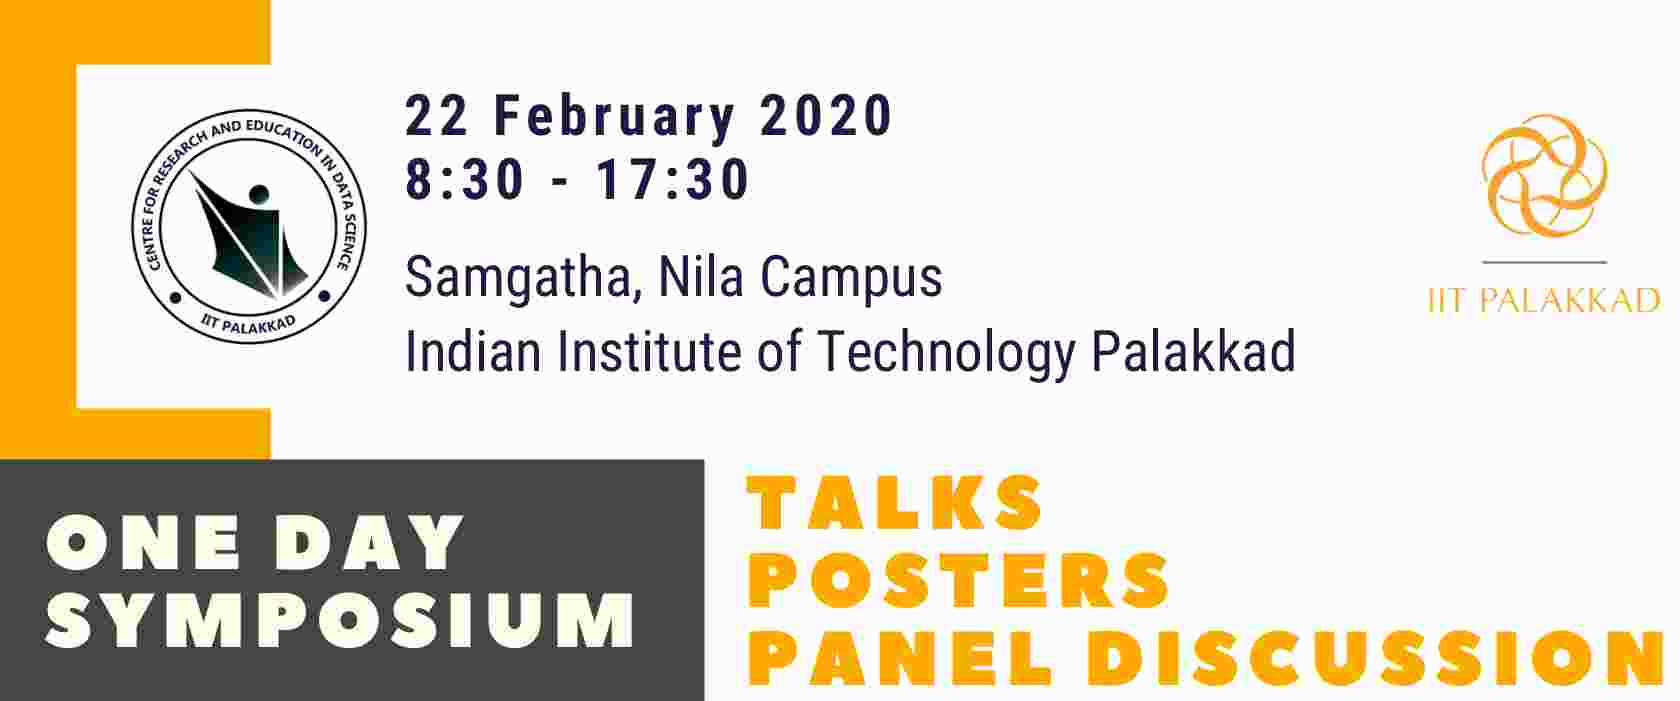
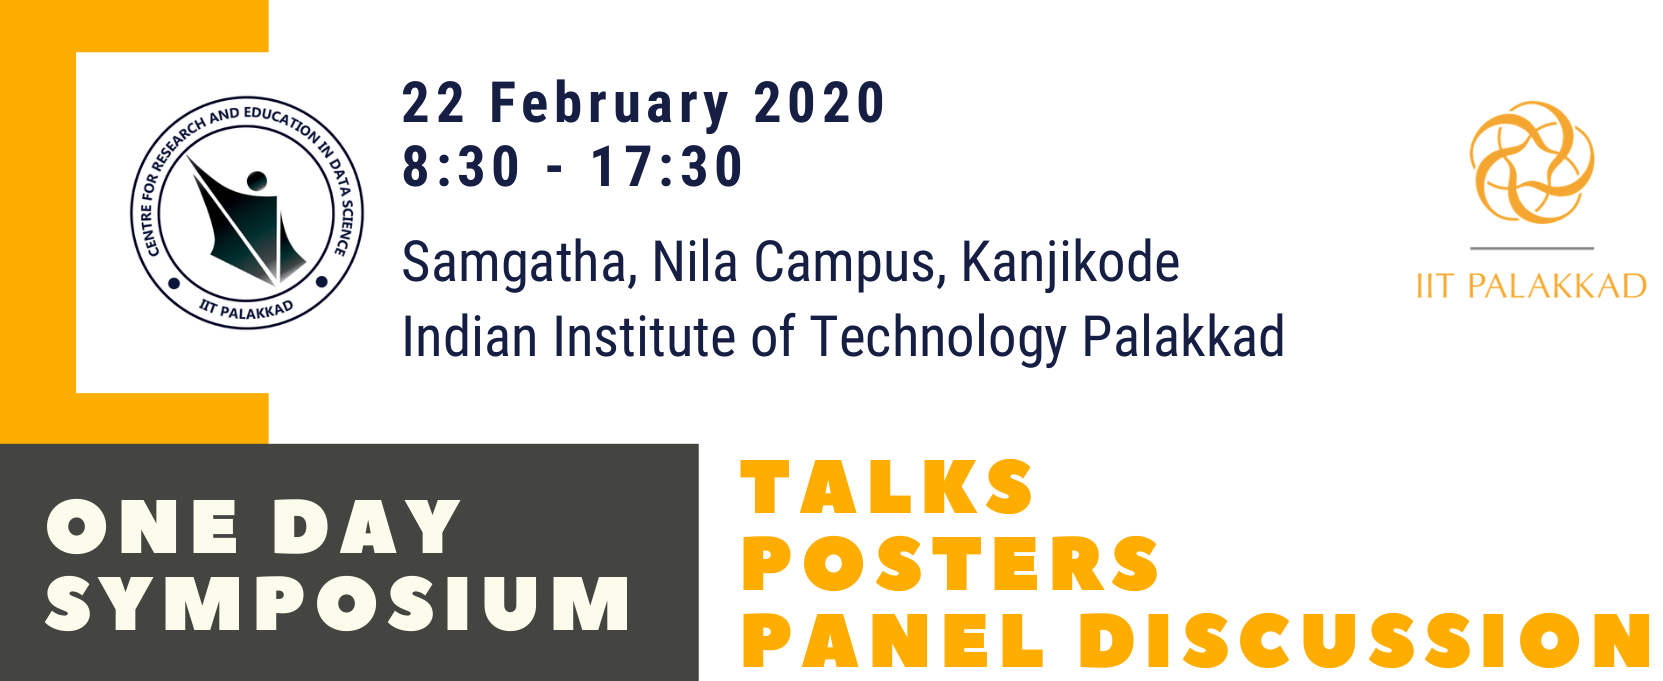
location update

diff --git a/seminar/index.html b/seminar/index.html
@@ -61,7 +61,7 @@
 &nbsp;
 &nbsp;
 &nbsp;
-<h1> The Inaugural Seminar on Data Science</h1>
+<h1> The Inaugural Symposium on Data Science</h1>
 <br>
 
 
@@ -71,7 +71,7 @@
 </li>
 
 <li class="amenu-item">
-<a href="index.html" title="Inaugural Seminar">Inaugural Seminar</a>
+<a href="index.html" title="Inaugural Symposium">Inaugural Symposium</a>
 </li>
 
 
@@ -105,11 +105,11 @@ Nila campus IIT Palakkad </hcc>
 
 <h3> <a href="https://forms.gle/GUE6bD6767f1ov1R6" title="Registration">Register here by 15 Feb</a> </h3>
 
-Everyone is welcome to attend the seminar. However, due to large number of requests for participation and limited number of available seats, we request you to register for the seminar with relevant information for a selection process. 
+Everyone is welcome to attend the symposium. However, due to large number of requests for participation and limited number of available seats, we request you to register for the seminar with relevant information for a selection process. 
 
 <br><br><br>
 
-<h3> Confirmed Speakers </h3><br>
+<h3>Speakers </h3><br>
 <ul>
 <li> <a href="http://www.facweb.iitkgp.ac.in/~niloy/"> Prof. Niloy Ganguly </a>, IIT Kharagpur</li> <br>
 <li> <a href="https://www.csa.iisc.ac.in/~chiru/"> Prof. Chiranjib Bhattacharyya</a>, IISc Bangalore </li><br>

diff --git a/index.html b/index.html
@@ -76,7 +76,7 @@
 </li>
 
 <li class="amenu-item">
-<a href="seminar/index.html" title="Inaugural Seminar">Inaugural Seminar</a>
+<a href="seminar/index.html" title="Inaugural Symposium">Inaugural Symposium</a>
 </li>
 
 
@@ -178,7 +178,7 @@ A major agenda of CREDS is to foster active industrial as well as academic colla
 
 
 <br><br>
-<h3> <a href="seminar/index.html" title="Seminar">Inaugural Seminar on Data Science on 22 Feb 2020.</a> </h3>
+<h3> <a href="seminar/index.html" title="Symposium">Inaugural Symposium on Data Science on 22 Feb 2020.</a> </h3>
  
 <!--
 <a name="News"></a>

diff --git a/mds/index.html b/mds/index.html
@@ -72,7 +72,7 @@
 </li>
 
 <li class="amenu-item">
-<a href="../seminar/index.html" title="Inaugural Seminar">Inaugural Seminar</a>
+<a href="../seminar/index.html" title="Inaugural Symposium">Inaugural Symposium</a>
 </li>
 
 
